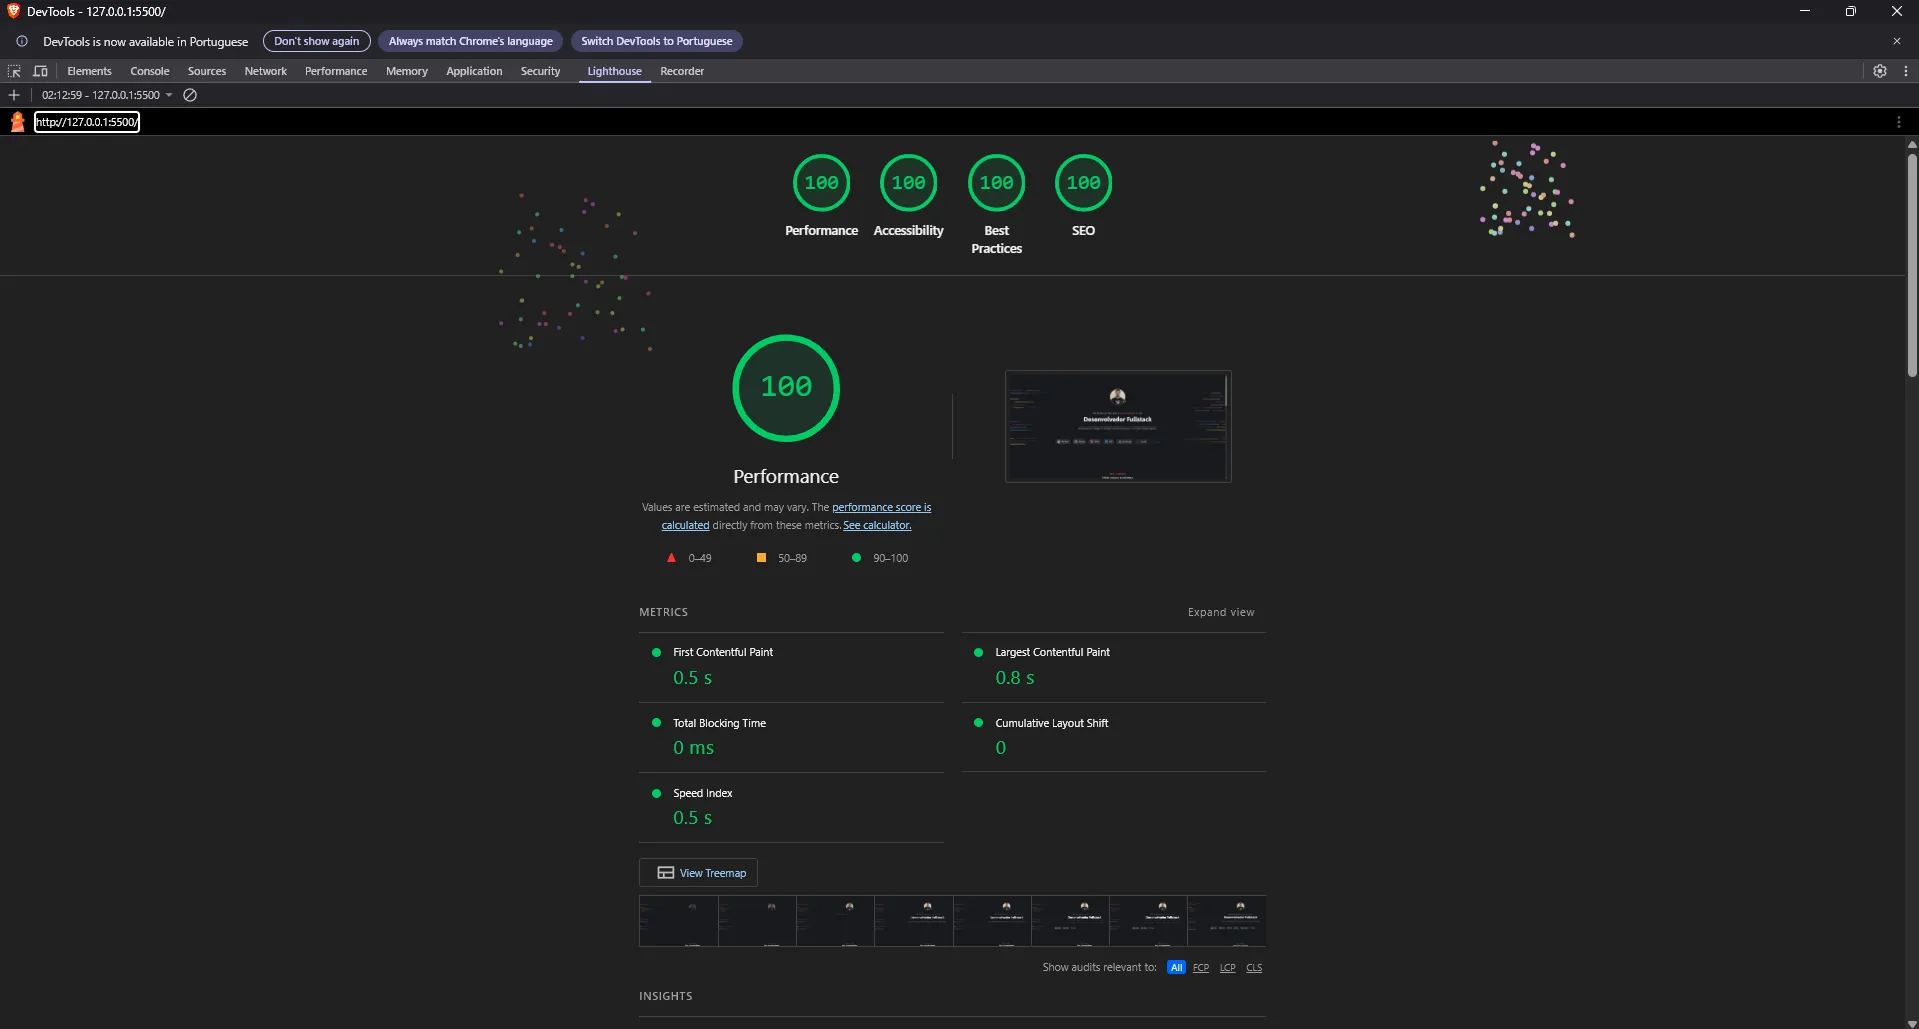
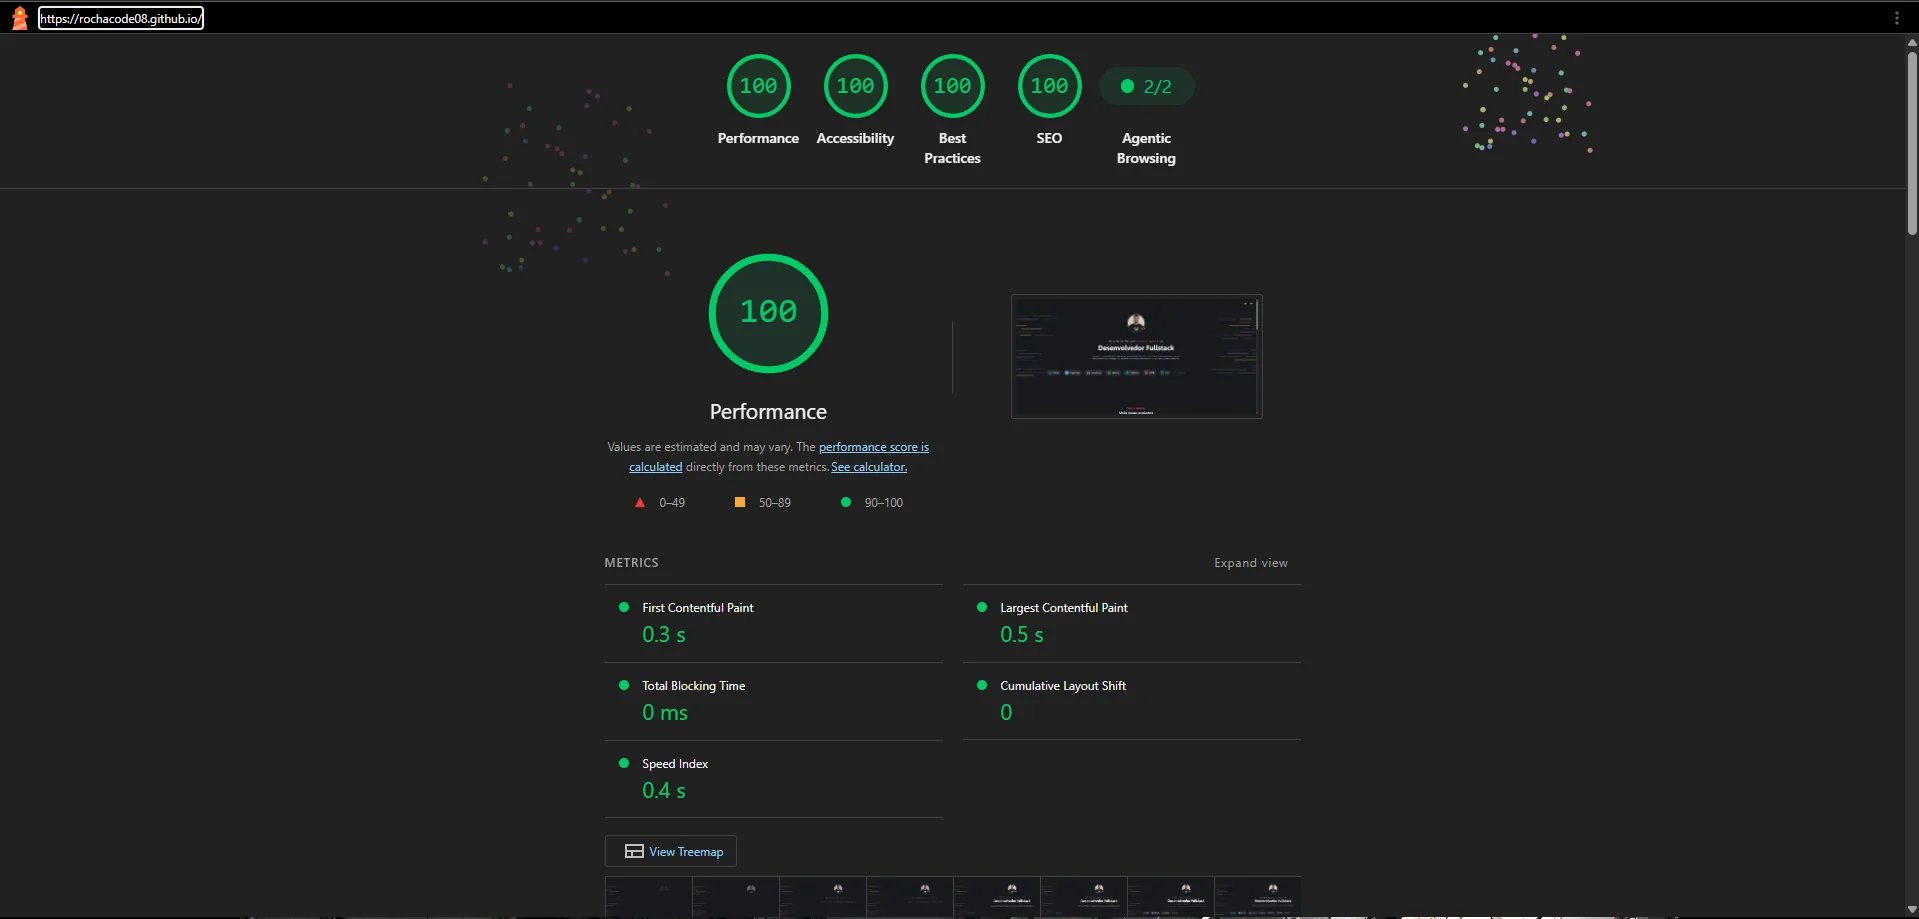
docs: atualiza resultados do Lighthouse no README
Substitui os prints antigos pelos novos com 100 em todas as categorias no desktop e no mobile e marca a meta de 100 no mobile como concluída.

diff --git a/README.md b/README.md
@@ -143,7 +143,7 @@ O projeto conta com **6 breakpoints** para suporte a múltiplos tamanhos de tela
 
 ## ⚡ Performance
 
-O projeto foi otimizado com foco em Core Web Vitals e auditado pelo **Google Lighthouse**:
+O projeto foi otimizado com foco em Core Web Vitals e auditado pelo **Google Lighthouse**, atingindo **100 em Performance, Acessibilidade, Boas Práticas e SEO** no desktop e no mobile:
 
 ### 🖥 Desktop
 
@@ -219,7 +219,7 @@ Abra o arquivo `index.html` no navegador — ou utilize a extensão **Live Serve
 - [x] Adicionar `prefers-reduced-motion` para acessibilidade
 - [ ] Adicionar página individual para cada projeto com case study
 - [ ] Implementar blog/artigos sobre desenvolvimento
-- [ ] Alcançar **100/100** no Lighthouse mobile
+- [x] Alcançar **100/100** no Lighthouse mobile
 
 ## 📝 Licença
 
